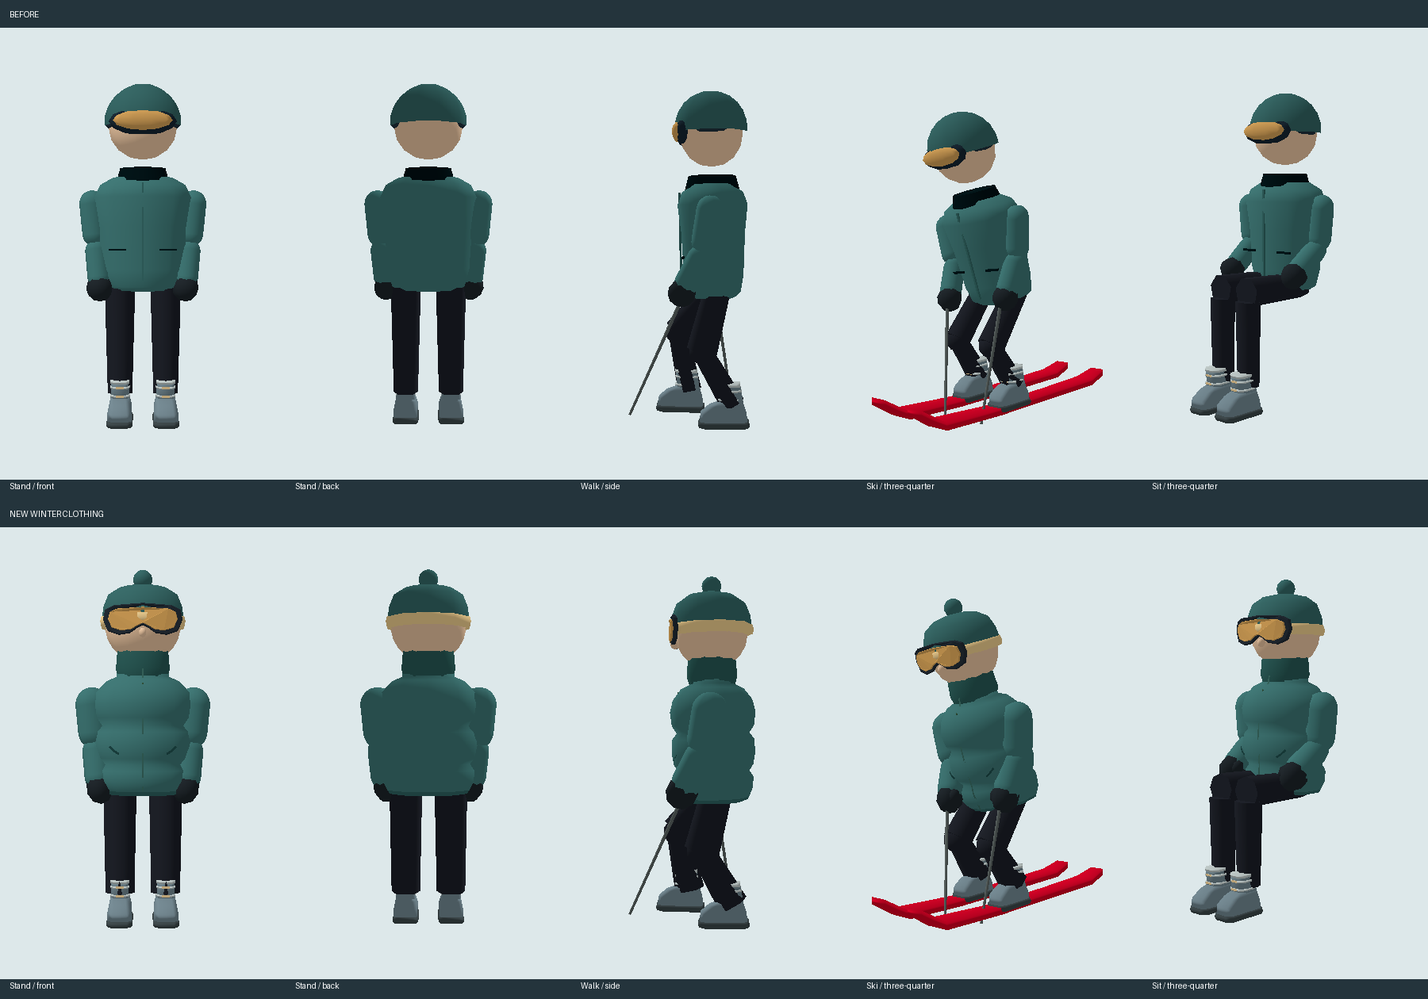
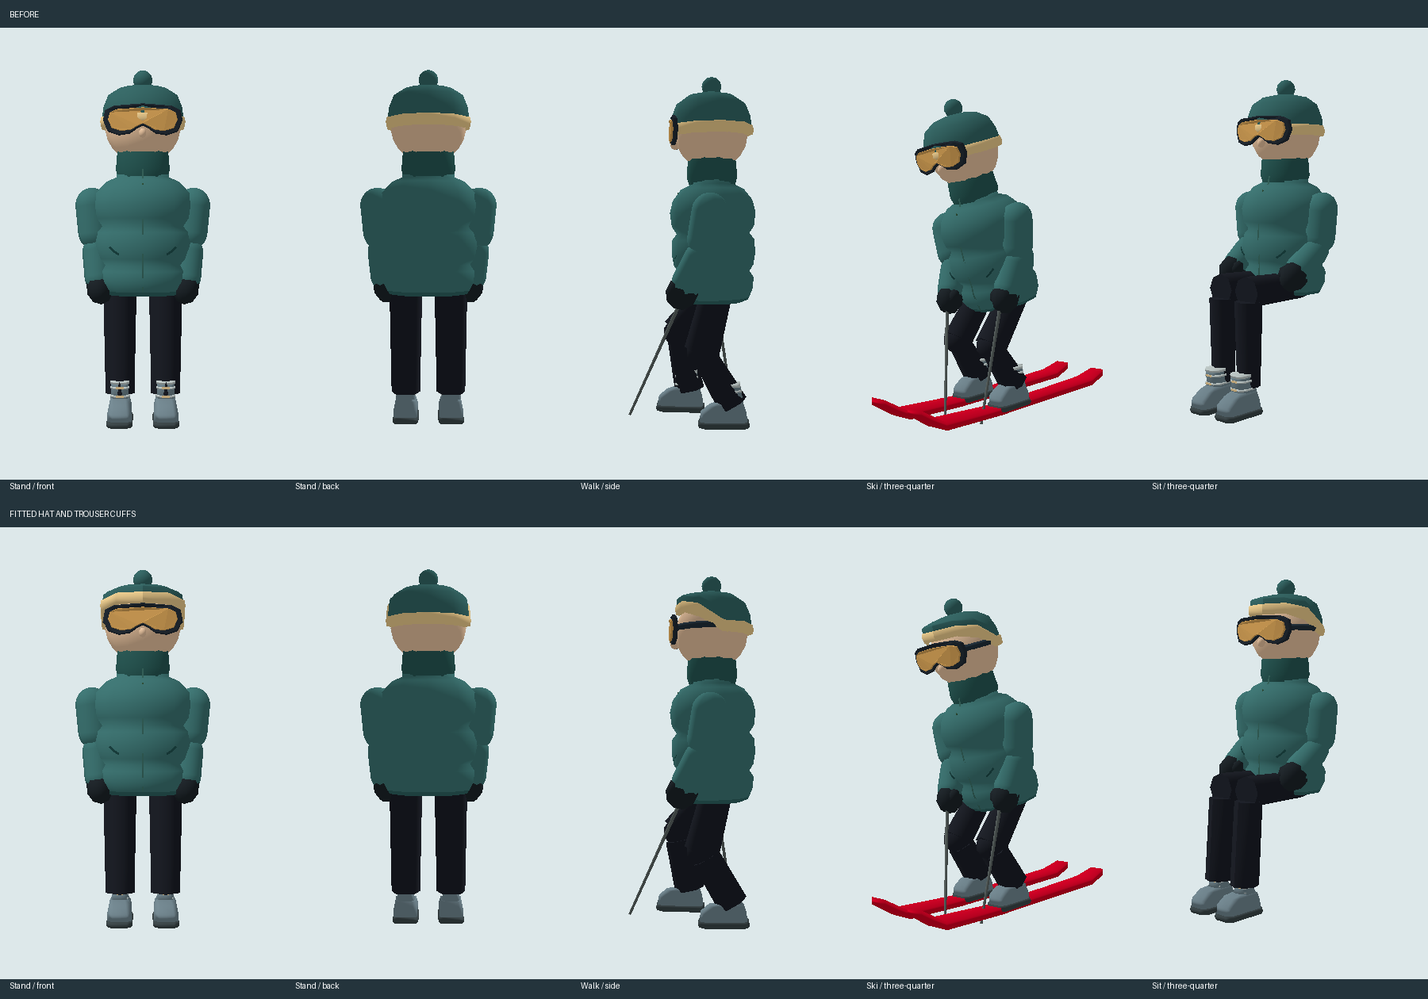
Fit skier headwear around goggles and tuck boot shafts under cuffs

diff --git a/designs/data/skier-before-model.js b/designs/data/skier-before-model.js
@@ -1,31 +1,85 @@
-/* V5 appearance only. All driven groups, joints and contact points stay in place. */
+/* Original V5 winter clothing. Driven joints, seat offsets and contact geometry stay authoritative. */
 window.LiftCoGuestModelBefore=(()=>{
  'use strict';
  const caches=new WeakMap();
  function library(T){
   if(caches.has(T))return caches.get(T);
-  function merge(parts){const positions=[],normals=[],colors=[];for(const [source,color]of parts){const g=source.index?source.toNonIndexed():source,c=new T.Color(color),p=g.attributes.position,n=g.attributes.normal;for(let i=0;i<p.count;i++){positions.push(p.getX(i),p.getY(i),p.getZ(i));normals.push(n.getX(i),n.getY(i),n.getZ(i));colors.push(c.r,c.g,c.b);}if(g!==source)g.dispose();source.dispose();}const g=new T.BufferGeometry();g.setAttribute('position',new T.Float32BufferAttribute(positions,3));g.setAttribute('normal',new T.Float32BufferAttribute(normals,3));g.setAttribute('color',new T.Float32BufferAttribute(colors,3));g.computeBoundingSphere();return g;}
-  const shell=new T.LatheGeometry([[-.37,.20],[-.34,.25],[-.23,.28],[.05,.30],[.24,.33],[.32,.29],[.37,.20]].map(([y,r])=>new T.Vector2(r,y)),10);shell.scale(1,1,.70);
-  const jacket=merge([[shell,0xffffff],[new T.CylinderGeometry(.155,.18,.09,10).translate(0,.385,0),0x293b43],[new T.BoxGeometry(.014,.62,.014).translate(0,.015,.216),0xd9e2df],[new T.BoxGeometry(.11,.014,.016).translate(-.16,-.10,.193),0x31434b],[new T.BoxGeometry(.11,.014,.016).translate(.16,-.10,.193),0x31434b]]);
+  function merge(parts){
+   const positions=[],normals=[],colors=[];
+   for(const [source,color]of parts){
+    const g=source.index?source.toNonIndexed():source,c=new T.Color(color),p=g.attributes.position,n=g.attributes.normal;
+    for(let i=0;i<p.count;i++){positions.push(p.getX(i),p.getY(i),p.getZ(i));normals.push(n.getX(i),n.getY(i),n.getZ(i));colors.push(c.r,c.g,c.b);}
+    if(g!==source)g.dispose();source.dispose();
+   }
+   const g=new T.BufferGeometry();g.setAttribute('position',new T.Float32BufferAttribute(positions,3));g.setAttribute('normal',new T.Float32BufferAttribute(normals,3));g.setAttribute('color',new T.Float32BufferAttribute(colors,3));g.computeBoundingBox();g.computeBoundingSphere();return g;
+  }
+  const lathe=(profile,segments=10)=>new T.LatheGeometry(profile.map(([y,r])=>new T.Vector2(r,y)),segments);
+  function seam(points,width=.006){
+   const curve=new T.CatmullRomCurve3(points.map(p=>new T.Vector3(...p))),samples=curve.getPoints(8),positions=[],indices=[];
+   for(let i=0;i<samples.length;i++){
+    const a=samples[Math.max(0,i-1)],b=samples[Math.min(samples.length-1,i+1)],side=new T.Vector3(-(b.y-a.y),b.x-a.x,0).normalize().multiplyScalar(width);
+    for(const sign of [1,-1])positions.push(samples[i].x+side.x*sign,samples[i].y+side.y*sign,samples[i].z);
+    if(i<samples.length-1){const at=i*2;indices.push(at,at+1,at+2,at+1,at+3,at+2);}
+   }
+   const g=new T.BufferGeometry();g.setAttribute('position',new T.Float32BufferAttribute(positions,3));g.setIndex(indices);g.computeVertexNormals();return g;
+  }
+  // Rounded baffles form the silhouette, including the back; no stacked floating rings.
+  const coat=lathe([[-.40,0],[-.40,.23],[-.37,.28],[-.31,.31],[-.24,.315],[-.20,.284],[-.16,.315],[-.08,.333],[.01,.326],[.05,.289],[.10,.327],[.19,.34],[.27,.315],[.34,.25],[.37,.18],[.44,.17],[.46,0]]);coat.scale(1,1,.83);
+  const collar=lathe([[.36,.165],[.42,.185],[.53,.175],[.56,.155],[.56,.135],[.48,.14]]);collar.scale(1,1,.90);
+  const hem=lathe([[-.40,.23],[-.39,.267],[-.365,.282]]);hem.scale(1,1,.83);
+  const zipper=seam([[0,-.37,.239],[0,-.23,.267],[0,-.18,.26],[0,0,.277],[0,.07,.262],[0,.23,.27],[0,.35,.175],[0,.455,.158]],.0065);
+  const pockets=[-1,1].map(side=>seam([[side*.15,-.13,.256],[side*.18,-.11,.247],[side*.21,-.08,.229]],.007));
+  const pull=new T.SphereGeometry(.015,6,4);pull.scale(.65,1.6,.45);pull.translate(0,.30,.226);
+  const jacket=merge([[coat,0xffffff],[collar,0xbac8c3],[hem,0xd0d9d8],[zipper,0xe4ddd0],[pockets[0],0x829493],[pockets[1],0x829493],[pull,0xd7bd8d]]);
+
+  function goggleShape(){
+   const s=new T.Shape();s.moveTo(-.18,.086);s.quadraticCurveTo(0,.108,.18,.086);s.quadraticCurveTo(.25,.08,.244,.005);s.quadraticCurveTo(.237,-.082,.15,-.087);s.quadraticCurveTo(.069,-.087,.036,-.044);s.quadraticCurveTo(0,-.011,-.036,-.044);s.quadraticCurveTo(-.069,-.087,-.15,-.087);s.quadraticCurveTo(-.237,-.082,-.244,.005);s.quadraticCurveTo(-.25,.08,-.18,.086);return s;
+  }
+  function goggles(inset=false){
+   const g=new T.ExtrudeGeometry(goggleShape(),{depth:inset?.011:.020,bevelEnabled:true,bevelSize:inset?.003:.006,bevelThickness:.003,bevelSegments:1,curveSegments:2});
+   if(inset)g.scale(.885,.76,1);
+   const p=g.attributes.position;
+   for(let i=0;i<p.count;i++){const x=p.getX(i),z=(inset?.228:.207)+.037*(1-(x/.25)**2)+p.getZ(i);p.setXYZ(i,x,p.getY(i)+.012,z);}
+   g.computeVertexNormals();return g;
+  }
   const heads=[0xeac6a3,0xc48c67,0x875940,0xf0d7bb].map(skin=>{
-   const face=new T.SphereGeometry(.225,10,8);face.scale(1,.94,.96);
-   const strap=new T.TorusGeometry(.221,.025,4,12);strap.scale(1,.68,1);strap.rotateX(Math.PI/2);strap.translate(0,.015,0);
-   const frame=new T.SphereGeometry(1,10,6,0,Math.PI*2,0,Math.PI);frame.scale(.217,.088,.051);frame.translate(0,.015,.183);
-   const lens=new T.SphereGeometry(1,10,6);lens.scale(.189,.063,.039);lens.translate(0,.018,.219);
-   return merge([[face,skin],[strap,0x263641],[frame,0x1d2c37],[lens,0xd5a35b]]);
+   // The cap covers the open scalp. This avoids adding height above the established head anchor.
+   const face=new T.SphereGeometry(.248,12,8,0,Math.PI*2,.68,Math.PI-.68);face.scale(1,.94,.96);
+   const strap=new T.TorusGeometry(.245,.021,4,16);strap.rotateX(Math.PI/2);strap.scale(1,1,.96);strap.translate(0,.035,0);
+   const nose=new T.SphereGeometry(.031,7,5);nose.scale(.8,1,1);nose.translate(0,-.066,.239);
+   return merge([[face,skin],[nose,skin],[strap,0x283641],[goggles(),0x28313a],[goggles(true),0xd9a65b]]);
   });
-  const helmet=new T.SphereGeometry(.253,10,6,0,Math.PI*2,0,1.65);helmet.scale(1,1,.98);
-  const sleeve=new T.CapsuleGeometry(.087,.2,3,7),forearm=new T.CapsuleGeometry(.079,.18,3,7);
-  const thigh=new T.CylinderGeometry(.10,.09,.54,7);thigh.rotateX(Math.PI/2);
-  const shin=new T.CylinderGeometry(.086,.074,.56,7);
-  const data={jacket,heads,helmet,sleeve,forearm,thigh,shin};caches.set(T,data);return data;
+  const hats=new Map();
+  function hat(color){
+   const key=color.getHex();if(hats.has(key))return hats.get(key);
+   const dye=color.clone().multiplyScalar(.78);
+   const dome=lathe([[-.015,.267],[.015,.278],[.09,.268],[.17,.235],[.22,.16],[.24,.065],[.242,0]]);
+   dome.scale(1,1,.96);
+   const band=lathe([[-.042,.252],[-.035,.284],[-.005,.29],[.025,.284],[.033,.264]]);band.scale(1,1,.96);
+   const pom=new T.SphereGeometry(.065,8,6);pom.translate(0,.28,-.007);
+   const g=merge([[dome,dye],[band,0xf1d193],[pom,dye]]);hats.set(key,g);return g;
+  }
+  const sleeve=new T.CapsuleGeometry(.115,.18,3,7),forearm=new T.CapsuleGeometry(.099,.17,3,7);
+  const mittens=[-1,1].map(side=>{
+   const palm=new T.SphereGeometry(.10,8,5);palm.scale(.90,1.1,1.02);
+   const thumb=new T.SphereGeometry(.043,6,4);thumb.scale(1,1.22,1);thumb.translate(-side*.068,-.005,.024);
+   return merge([[palm,0xffffff],[thumb,0xffffff]]);
+  });
+  const thigh=new T.CylinderGeometry(.105,.095,.54,8);thigh.rotateX(Math.PI/2);
+  const shin=new T.CylinderGeometry(.092,.077,.56,8);
+  const leg=new T.CylinderGeometry(.115,.10,.70,5),thighDetail=new T.CylinderGeometry(.115,.10,1,6),shinDetail=new T.CylinderGeometry(.10,.077,1,6),knee=new T.SphereGeometry(.10,7,5);
+  const data={jacket,heads,hat,sleeve,forearm,mittens,thigh,shin,leg,thighDetail,shinDetail,knee};caches.set(T,data);return data;
  }
  function dress(T,s,{helmet}){
   const a=library(T),replace=(mesh,geometry)=>{mesh.geometry.dispose();mesh.geometry=geometry;};
   replace(s.torso,a.jacket);s.torso.material.vertexColors=true;s.torso.material.needsUpdate=true;
   replace(s.head,a.heads[(s.ticket>>>0)%a.heads.length]);s.head.material.color.set(0xffffff);s.head.material.vertexColors=true;s.head.material.needsUpdate=true;
-  replace(helmet,a.helmet);helmet.material.color.copy(s.torso.material.color).multiplyScalar(.72);helmet.material.roughness=.7;
-  for(const {arm,elbow}of s.arms){replace(arm.children[0],a.sleeve);replace(elbow.children[0],a.forearm);}
+  replace(helmet,a.hat(s.torso.material.color));helmet.material.color.set(0xffffff);helmet.material.vertexColors=true;helmet.material.roughness=.88;helmet.material.needsUpdate=true;
+  for(const {arm,elbow,side}of s.arms){
+   replace(arm.children[0],a.sleeve);replace(elbow.children[0],a.forearm);replace(elbow.children[1],a.mittens[side>0?1:0]);
+  }
+  for(const part of s.skiRig.parts){replace(part.thigh,a.thighDetail);replace(part.shin,a.shinDetail);replace(part.kneecap,a.knee);}
+  for(let i=0;i<s.skiRig.original.children.length;i+=2)replace(s.skiRig.original.children[i],a.leg);
   for(let i=0;i<s.seatedLegs.children.length;i+=3){replace(s.seatedLegs.children[i],a.thigh);replace(s.seatedLegs.children[i+1],a.shin);}
  }
  return{dress};

diff --git a/designs/skier-study.html b/designs/skier-study.html
@@ -10,18 +10,18 @@
 <main>
 <section class="viewer" aria-label="Skier model comparison">
  <div class="toolbar"><div role="group" aria-label="Model"><button data-model="before" aria-pressed="false">Before</button><button data-model="after" aria-pressed="true">New skier</button></div><div role="group" aria-label="Pose"><button data-pose="stand" aria-pressed="true">Stand</button><button data-pose="walk" aria-pressed="false">Walk</button><button data-pose="ski" aria-pressed="false">Ski</button><button data-pose="seat" aria-pressed="false">Sit</button></div></div>
- <div class="toolbar secondary"><div role="group" aria-label="Viewpoint"><button data-view="front" aria-pressed="true">Front</button><button data-view="side" aria-pressed="false">Side</button><button data-view="back" aria-pressed="false">Back</button><button data-view="three" aria-pressed="false">Three-quarter</button></div><label><input id="animateSkier" type="checkbox" checked> Animate</label></div>
+ <div class="toolbar secondary"><div role="group" aria-label="Viewpoint"><button data-view="front" aria-pressed="true">Front</button><button data-view="side" aria-pressed="false">Side</button><button data-view="back" aria-pressed="false">Back</button><button data-view="three" aria-pressed="false">Three-quarter</button><button data-view="face" aria-pressed="false">Face</button><button data-view="boots" aria-pressed="false">Boots</button></div><label><input id="animateSkier" type="checkbox" checked> Animate</label></div>
  <div id="firCanvas"></div>
  <div class="caption"><strong id="skierLabel">New skier</strong><span>Drag to orbit. Scroll to zoom.</span></div>
  <pre id="studyError" role="alert" hidden></pre>
 </section>
-<section class="notes"><p>One clothing prototype: a padded jacket, wraparound goggles, a banded beanie and rounded mittens. It uses the existing joint positions, ski contacts and seated leg rig.</p><p>The poses use the game's walking and ski animation code. This study does not open or change a resort save. Browser performance and live lift clearance still need review.</p><details><summary>Show the geometry contact sheet</summary><p>Offline software rendering of the actual rig and mesh data, not an in-game screenshot.</p><img src="./data/skier-comparison.png" alt="Before and revised skier geometry shown standing, walking, skiing and sitting from several viewpoints"></details></section>
+<section class="notes"><p>Fit revision: the beanie clears the goggles and follows head turns. Trouser hems cover slimmer boot shafts; soles and ski contacts stay unchanged. Use Face and Boots for a closer look.</p><p>The poses use the game's walking and ski animation code. This study does not open or change a resort save. Browser performance and live lift clearance still need review.</p><details><summary>Show the geometry contact sheet</summary><p>Offline software rendering of the actual rig and mesh data, not an in-game screenshot.</p><img src="./data/skier-comparison.png" alt="Before and revised skier geometry shown standing, walking, skiing and sitting from several viewpoints"></details></section>
 </main>
 <script src="../src/resort/guest-boots.js?v=4.3.7"></script>
 <script src="../src/resort/ski-motion.js?v=4.3.7"></script>
 <script src="../src/resort/guest-animation.js?v=4.3.8"></script>
-<script src="./data/skier-before-model.js"></script>
-<script src="../src/resort/guest-model.js?v=5.0.2"></script>
+<script src="./data/skier-before-model.js?v=5.0.3"></script>
+<script src="../src/resort/guest-model.js?v=5.0.3"></script>
 <script src="./data/skier-rig.js?v=5.0.2"></script>
 <script src="./data/skier-poses.js?v=5.0.2"></script>
 <script type="module">
@@ -33,7 +33,7 @@ window.addEventListener('error',e=>fail(e.error||e.message));window.addEventList
 try{
  const scene=new T.Scene();scene.background=new T.Color(0xe2eaf0);
  const camera=new T.PerspectiveCamera(34,1,.05,60),host=document.getElementById('firCanvas'),renderer=new T.WebGLRenderer({antialias:true});renderer.setPixelRatio(Math.min(devicePixelRatio,1.5));renderer.outputColorSpace=T.SRGBColorSpace;renderer.toneMapping=T.ACESFilmicToneMapping;renderer.toneMappingExposure=1.05;host.append(renderer.domElement);
- const controls=new OrbitControls(camera,renderer.domElement);controls.target.set(0,1.15,0);controls.minDistance=2.5;controls.maxDistance=11;controls.maxPolarAngle=Math.PI*.51;controls.enableDamping=true;
+ const controls=new OrbitControls(camera,renderer.domElement);controls.target.set(0,1.15,0);controls.minDistance=.8;controls.maxDistance=11;controls.maxPolarAngle=Math.PI*.51;controls.enableDamping=true;
  scene.add(new T.HemisphereLight(0xebf3ff,0x76847b,2));const sun=new T.DirectionalLight(0xfff1dd,2.3);sun.position.set(-4,6,5);scene.add(sun);
  const floor=new T.Mesh(new T.PlaneGeometry(60,60),new T.MeshStandardMaterial({color:0xe4eaed,roughness:1}));floor.rotation.x=-Math.PI/2;floor.position.y=-.04;scene.add(floor);
  const models={before:window.LiftCoSkierStudyRig.create(T,{dress:window.LiftCoGuestModelBefore.dress}),after:window.LiftCoSkierStudyRig.create(T)};
@@ -41,8 +41,8 @@ try{
  const chair=new T.Group(),seatM=new T.MeshStandardMaterial({color:0x667986,roughness:.85}),legM=new T.MeshStandardMaterial({color:0x485d66,metalness:.35,roughness:.7});
  function box(w,h,d,x,y,z,m){const o=new T.Mesh(new T.BoxGeometry(w,h,d),m);o.position.set(x,y,z);chair.add(o);}
  box(.78,.09,.60,0,.91,.18,seatM);box(.78,.63,.09,0,1.25,-.14,seatM);for(const x of [-.3,.3])for(const z of [-.05,.40])box(.045,.87,.045,x,.435,z,legM);scene.add(chair);chair.visible=false;
- const views={front:[0,1.3,5.7],side:[5.7,1.3,0],back:[0,1.3,-5.7],three:[3.6,1.7,4.4]};
- function view(name){camera.position.set(...views[name]);controls.target.set(0,1.15,0);controls.update();for(const b of document.querySelectorAll('[data-view]'))b.setAttribute('aria-pressed',String(b.dataset.view===name));}
+ const views={front:[0,1.3,5.7],side:[5.7,1.3,0],back:[0,1.3,-5.7],three:[3.6,1.7,4.4],face:[0,2,1.35],boots:[.9,.4,.95]};
+ function view(name){camera.position.set(...views[name]);controls.target.set(0,name==='face'?1.95:name==='boots'?.20:1.15,name==='boots'?.10:0);controls.update();for(const b of document.querySelectorAll('[data-view]'))b.setAttribute('aria-pressed',String(b.dataset.view===name));}
  for(const b of document.querySelectorAll('[data-view]'))b.addEventListener('click',()=>view(b.dataset.view));
  for(const b of document.querySelectorAll('[data-model]'))b.addEventListener('click',()=>{for(const [name,s]of Object.entries(models))s.g.visible=name===b.dataset.model;for(const button of document.querySelectorAll('[data-model]'))button.setAttribute('aria-pressed',String(button===b));document.getElementById('skierLabel').textContent=b.dataset.model==='after'?'New skier':'Before';});
  for(const b of document.querySelectorAll('[data-pose]'))b.addEventListener('click',()=>{for(const p of Object.values(poses))p.set(b.dataset.pose);chair.visible=b.dataset.pose==='seat';for(const button of document.querySelectorAll('[data-pose]'))button.setAttribute('aria-pressed',String(button===b));});

diff --git a/src/resort/guest-model.js b/src/resort/guest-model.js
@@ -49,6 +49,15 @@ window.LiftCoGuestModel=(()=>{
    const nose=new T.SphereGeometry(.031,7,5);nose.scale(.8,1,1);nose.translate(0,-.066,.239);
    return merge([[face,skin],[nose,skin],[strap,0x283641],[goggles(),0x28313a],[goggles(true),0xd9a65b]]);
   });
+  // Cut the front of the knit brim above the frame, while keeping coverage at the ears/back.
+  function fitBrim(g,band=false){
+   const p=g.attributes.position;
+   for(let i=0;i<p.count;i++){
+    const y=p.getY(i),front=T.MathUtils.smoothstep(p.getZ(i),0,.12),fade=band?1:1-T.MathUtils.smoothstep(y,.025,.242);
+    p.setY(i,y+.135*front*fade);p.setZ(i,p.getZ(i)*(1-.16*front*fade));
+   }
+   g.computeVertexNormals();return g;
+  }
   const hats=new Map();
   function hat(color){
    const key=color.getHex();if(hats.has(key))return hats.get(key);
@@ -57,7 +66,7 @@ window.LiftCoGuestModel=(()=>{
    dome.scale(1,1,.96);
    const band=lathe([[-.042,.252],[-.035,.284],[-.005,.29],[.025,.284],[.033,.264]]);band.scale(1,1,.96);
    const pom=new T.SphereGeometry(.065,8,6);pom.translate(0,.28,-.007);
-   const g=merge([[dome,dye],[band,0xf1d193],[pom,dye]]);hats.set(key,g);return g;
+   const g=merge([[fitBrim(dome),dye],[fitBrim(band,true),0xf1d193],[pom,dye]]);hats.set(key,g);return g;
   }
   const sleeve=new T.CapsuleGeometry(.115,.18,3,7),forearm=new T.CapsuleGeometry(.099,.17,3,7);
   const mittens=[-1,1].map(side=>{
@@ -66,15 +75,29 @@ window.LiftCoGuestModel=(()=>{
    return merge([[palm,0xffffff],[thumb,0xffffff]]);
   });
   const thigh=new T.CylinderGeometry(.105,.095,.54,8);thigh.rotateX(Math.PI/2);
-  const shin=new T.CylinderGeometry(.092,.077,.56,8);
-  const leg=new T.CylinderGeometry(.115,.10,.70,5),thighDetail=new T.CylinderGeometry(.115,.10,1,6),shinDetail=new T.CylinderGeometry(.10,.077,1,6),knee=new T.SphereGeometry(.10,7,5);
-  const data={jacket,heads,hat,sleeve,forearm,mittens,thigh,shin,leg,thighDetail,shinDetail,knee};caches.set(T,data);return data;
+  // The seated visible shin slopes into the boot shaft, rather than ending behind it.
+  const shin=new T.CylinderGeometry(.092,.095,.55,8);shin.translate(0,.005,0);
+  for(let i=0;i<shin.attributes.position.count;i++){const y=shin.attributes.position.getY(i);shin.attributes.position.setZ(i,shin.attributes.position.getZ(i)+(.28-y)/.55*.04);}
+  shin.computeVertexNormals();
+  const leg=new T.CylinderGeometry(.115,.10,.70,5),thighDetail=new T.CylinderGeometry(.115,.10,1,6),shinDetail=new T.CylinderGeometry(.10,.095,.86,6).translate(0,.07,0),knee=new T.SphereGeometry(.10,7,5);
+  // Tuck only the upper boot shaft under the trouser cuff. Sole, toe and contact vertices stay fixed.
+  const boot=window.LiftCoGuestBoots.geometry(T),bp=boot.attributes.position;
+  for(let i=0;i<bp.count;i++){
+   const amount=T.MathUtils.smoothstep(bp.getY(i),.052,.10),z=bp.getZ(i);
+   bp.setX(i,bp.getX(i)*(1-.16*amount));bp.setZ(i,z*(1-(z>0?.61:.20)*amount));
+   if(bp.getY(i)>.052)bp.setY(i,.052+(bp.getY(i)-.052)*.5);
+  }
+  boot.computeVertexNormals();boot.computeBoundingBox();boot.computeBoundingSphere();
+  const data={jacket,heads,hat,sleeve,forearm,mittens,thigh,shin,leg,thighDetail,shinDetail,knee,boot};caches.set(T,data);return data;
  }
  function dress(T,s,{helmet}){
   const a=library(T),replace=(mesh,geometry)=>{mesh.geometry.dispose();mesh.geometry=geometry;};
   replace(s.torso,a.jacket);s.torso.material.vertexColors=true;s.torso.material.needsUpdate=true;
   replace(s.head,a.heads[(s.ticket>>>0)%a.heads.length]);s.head.material.color.set(0xffffff);s.head.material.vertexColors=true;s.head.material.needsUpdate=true;
   replace(helmet,a.hat(s.torso.material.color));helmet.material.color.set(0xffffff);helmet.material.vertexColors=true;helmet.material.roughness=.88;helmet.material.needsUpdate=true;
+  // Headwear is a cosmetic child of the driven head, so it cannot cut through turning goggles.
+  if(helmet.parent!==s.head){helmet.position.sub(s.head.position);s.head.add(helmet);}
+  const originalBoot=s.bootGeometry;s.g.traverse(mesh=>{if(mesh.geometry===originalBoot)mesh.geometry=a.boot;});s.bootGeometry=a.boot;originalBoot.dispose();
   for(const {arm,elbow,side}of s.arms){
    replace(arm.children[0],a.sleeve);replace(elbow.children[0],a.forearm);replace(elbow.children[1],a.mittens[side>0?1:0]);
   }

diff --git a/empty-map.html b/empty-map.html
@@ -113,7 +113,7 @@
 <script src="./src/resort/shuttle.js?v=village-polish-2"></script>
 <script src="./src/resort/village-tools.js?v=4.2.3"></script>
 <script src="./src/resort/operations.js?v=4.3.0"></script>
-<script src="./src/resort/guest-model.js?v=5.0.2"></script>
+<script src="./src/resort/guest-model.js?v=5.0.3"></script>
 <script src="./src/resort/guest-boots.js?v=4.3.7"></script>
 <script src="./src/resort/ski-motion.js?v=4.3.7"></script>
 <script src="./src/resort/guest-animation.js?v=4.3.8"></script>

diff --git a/tools/render-skier-study.py b/tools/render-skier-study.py
@@ -27,7 +27,7 @@ def render(data,eye,size=(360,570)):
 views=[('stand','Stand / front',(0,1.25,5.2)),('stand','Stand / back',(0,1.25,-5.2)),('walk','Walk / side',(5.2,1.25,0)),('ski','Ski / three-quarter',(3.7,1.65,4.1)),('seat','Sit / three-quarter',(3.7,1.65,4.1))]
 canvas=Image.new('RGB',(1800,1260),'#24343c');draw=ImageDraw.Draw(canvas)
 for row,name in enumerate(['before','after']):
- draw.text((12,row*630+12),'BEFORE'if name=='before'else'NEW WINTER CLOTHING',fill='white')
+ draw.text((12,row*630+12),'BEFORE'if name=='before'else'FITTED HAT AND TROUSER CUFFS',fill='white')
  for col,(mode,label,eye)in enumerate(views):
   image=render(data['models'][name][mode],eye);canvas.paste(image,(col*360,row*630+35));draw.text((col*360+12,row*630+607),label,fill='white')
 path=root/'designs/data/skier-comparison.png';canvas.save(path);print(path.relative_to(root))

diff --git a/docs/v5-plan.md b/docs/v5-plan.md
@@ -70,3 +70,11 @@ Initial direction, not accepted: snow-laden, irregular alpine firs; friendly pad
 - Visible resource counts before/after: stand 13 meshes, 2,122/2,876 triangles; walk 19 meshes, 2,330/3,084; ski 21 meshes, 2,418/3,172; sit 15 meshes, 2,194/2,964. Full-rig mesh/material counts remain 31/9. This is extra geometry, not a measured performance improvement. Laptop frame timing remains pending.
 - Focused isolated Three checks: 120 guests have finite geometry, matching color counts, one shared jacket/hat for a shared outfit and four cached face palettes. All four poses preserve the same driven transforms over 240 frames each before/after; boot/contact geometry is identical. JS/Python syntax, local HTTP dependencies and diff checks pass. No repository test suite added or run.
 - Browser inventory is empty, so WebGL appearance, empty in-game error overlay, V4 play-through and live seat/roof clearance remain unverified. The local server had stopped; restarted the permanent repository at the same 127.0.0.1:8783 origin so the study and current source are available without changing browser save origin. VPS untouched. Commit and push this skier work separately from trees/UI.
+
+### Skier fit correction
+
+- User reported hat/goggle and shoe/trouser clipping. In src/resort/guest-model.js, reshaped the front brim upward/inward around the frame and made headwear a cosmetic child of the driven head, preserving its initial world placement. Hat and goggles now turn together; driven head/limb/seat origins stay unchanged.
+- Slimmed and shortened only the boot shaft above the instep, widened/raised the animated trouser hem and aligned the seated visible shin/cuff with the boot shaft. Sole, toe/contact vertices and all animation joint transforms remain unchanged. Boot-shaft geometry changes are intentional; the earlier whole-boot identity claim applies to the initial study, not this fit correction.
+- Updated the study Before model to the preceding skier revision so the comparison isolates this fix. Added Face and Boots cameras and refreshed the offline image. Updated model cache tags in the game/study. No tree, lift, station, routing, simulation or save changes.
+- Focused geometry checks: frame-edge/hat intersections fall from 34 to zero at neutral; zero across five tested head turns. The upper cuff samples remain inside trouser side planes over 90 frames each of standing, walking, skiing and sitting. Four poses over 240 frames each retain identical driven transforms. Thirty constructed models have finite geometry. Unchanged visible mesh/triangle counts: 13/2,876 stand, 19/3,084 walk, 21/3,172 ski and 15/2,964 sit.
+- Re-rendered and inspected the offline before/after sheet. Script syntax, HTTP resource and diff checks pass. This is targeted fit verification, not proof of every extreme pose or live WebGL acceptance. Browser/device review remains pending; no repository test suite added or run. Commit/push only this skier fit correction. VPS untouched.
